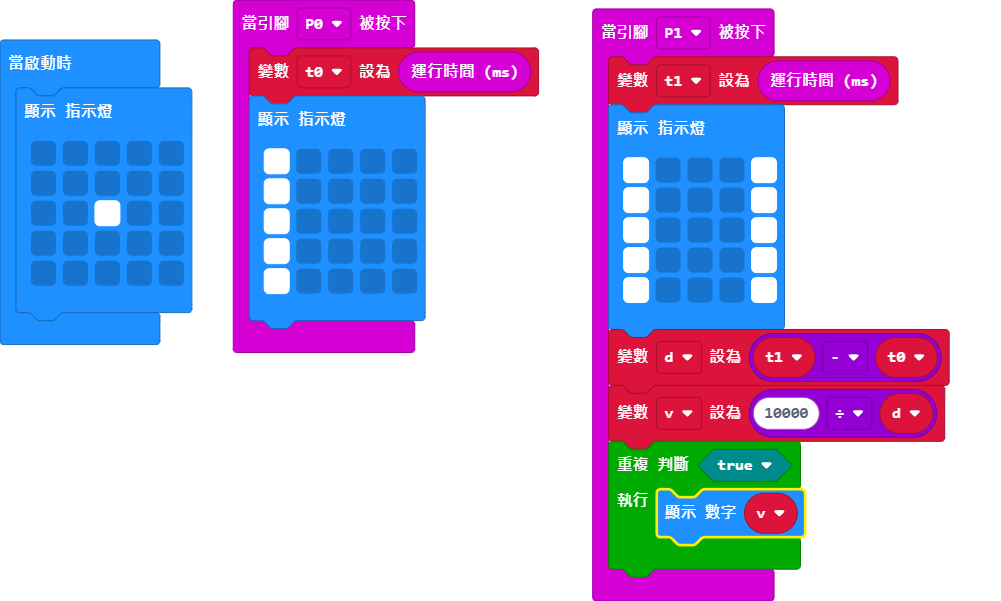
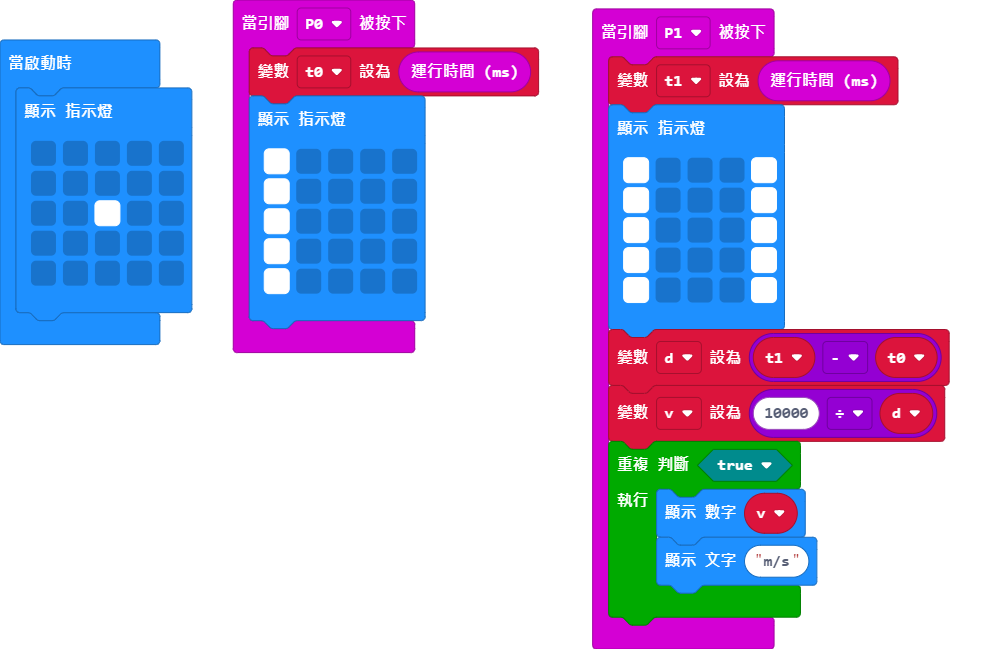
Update main.ts, main.blocks

diff --git a/main.ts b/main.ts
@@ -21,6 +21,7 @@ input.onPinPressed(TouchPin.P1, function () {
     v = 10000 / d
     while (true) {
         basic.showNumber(v)
+        basic.showString("m/s")
     }
 })
 let v = 0
